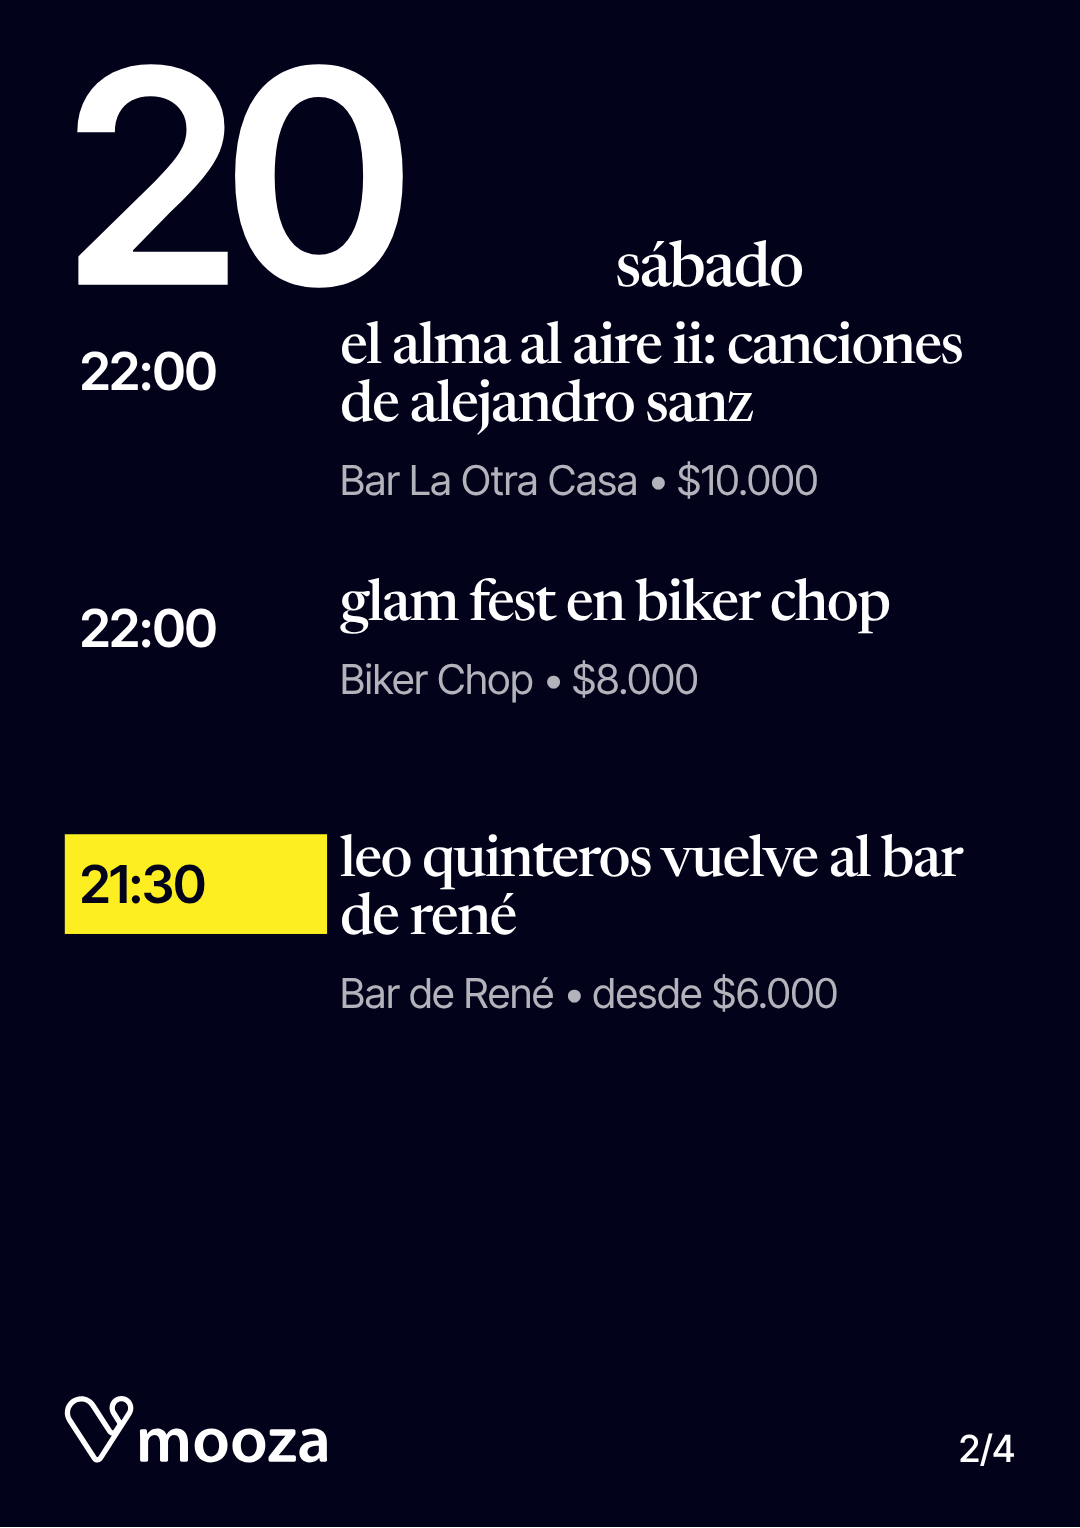
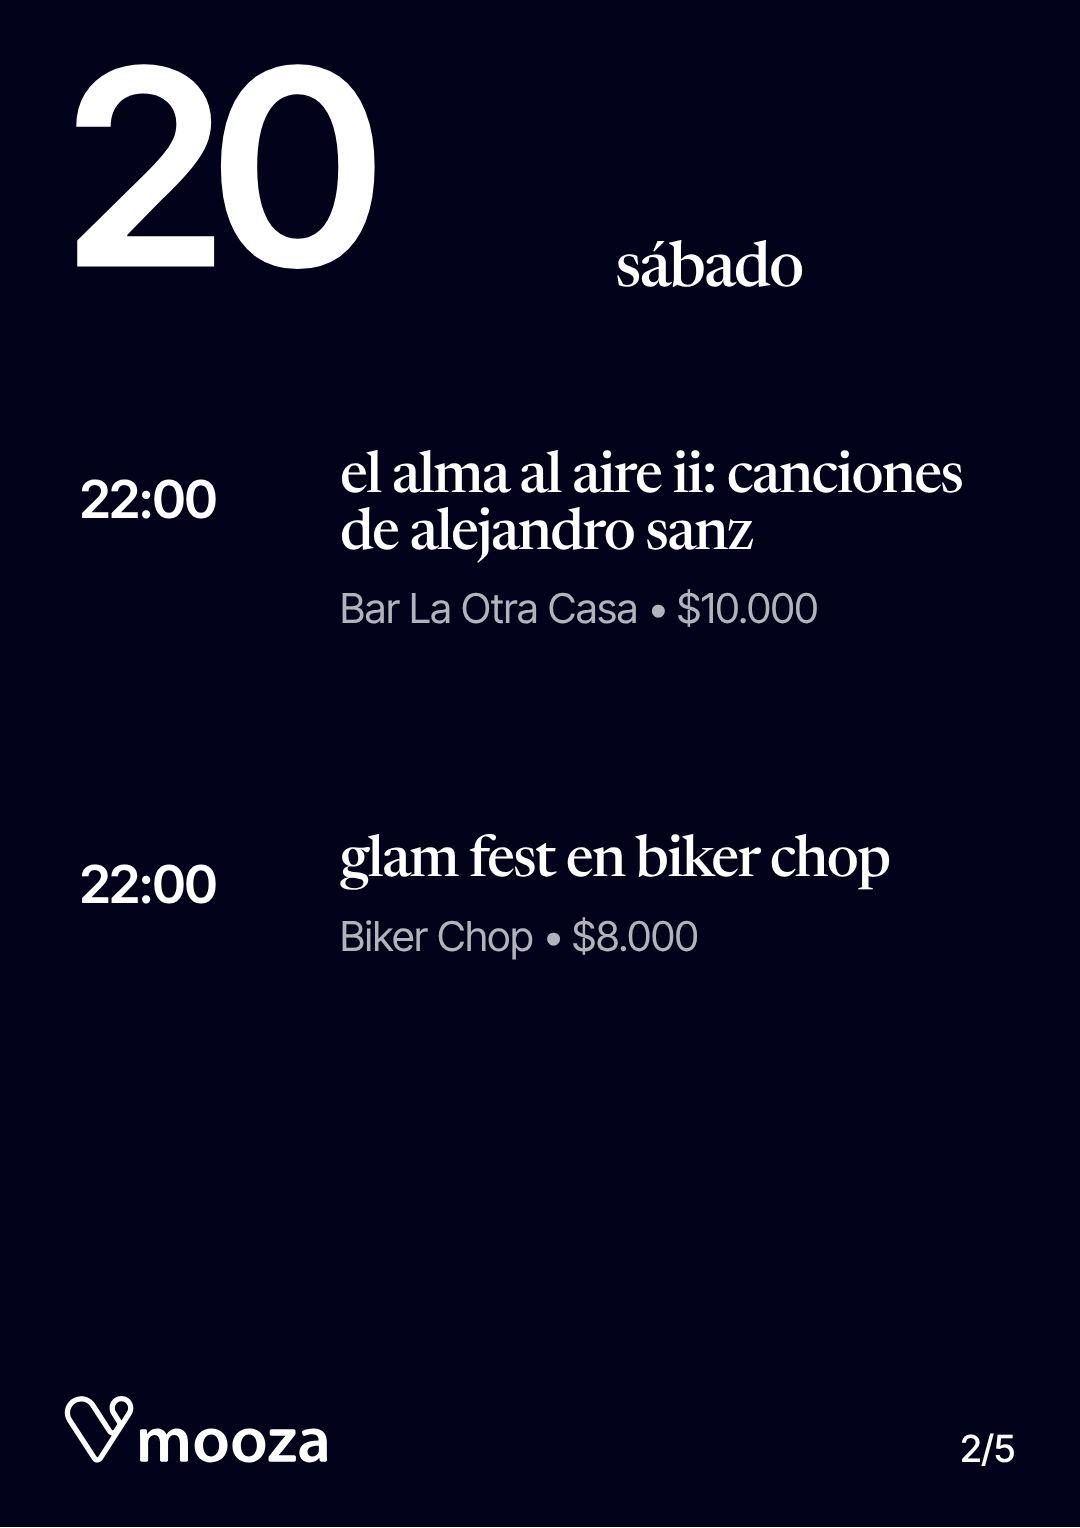
Agenda más aireada: dos eventos por lámina, una fila de aire y número más chico
Claude-Session: https://claude.ai/code/session_01FatczGDNUrWcTXBDB5f52U

diff --git a/components/grid/poster.js b/components/grid/poster.js
@@ -30,7 +30,7 @@
     dias:[['L',26],['M',27],['M',28],['J',29],['V',30],['S',31],['D',1]],
     diaDestacado:4,
     evento:{nombre:'Cuarteto de jazz<br>en vivo',meta:'Teatro del Parque<br>Vie 30 • 21:00 • desde $8.000'},
-    agenda:{dia:'sábado',n:20,pag:'2/4',eventos:[
+    agenda:{dia:'sábado',n:20,pag:'2/5',eventos:[
       {h:'22:00',t:'el alma al aire ii: canciones de alejandro sanz',v:'Bar La Otra Casa',p:'$10.000'},
       {h:'22:00',t:'glam fest en biker chop',v:'Biker Chop',p:'$8.000'},
       {h:'21:30',t:'leo quinteros vuelve al bar de rené',v:'Bar de René',p:'desde $6.000',f:1}
@@ -87,12 +87,13 @@
     return grid(n,h+pie(n,d.rango));
   }
 
-  /* agenda: un día por lámina. El número del día, enorme, y hasta tres eventos (cuatro en A3) con su hora, nombre y lugar.
-     Cada evento ocupa dos filas; el destacado lleva la hora en una celda amarilla. */
+  /* agenda: un día por lámina. El número del día y hasta dos eventos con su hora, nombre y lugar.
+     Cada evento ocupa dos filas y entre ellos queda una fila vacía; el primero empieza en la fila 4, tras una fila de aire.
+     El destacado lleva la hora en una celda amarilla. */
   function agenda(d,n){
-    var a=d.agenda,max=Math.floor((n-3)/2),h=cell(1,4,1,2,'mz-numero',String(a.n))+cell(5,7,1,2,'mz-nombre mz-dia-t',a.dia);
+    var a=d.agenda,max=2,h=cell(1,4,1,2,'mz-numero',String(a.n))+cell(5,7,1,2,'mz-nombre mz-dia-t',a.dia);
     a.eventos.slice(0,max).forEach(function(e,i){
-      var r=3+i*2;
+      var r=4+i*3;
       h+=cell(1,2,r,r,'mz-hora'+(e.f?' mz-hora-on':''),e.h||'')+
          cell(3,7,r,r+1,'mz-evento-t','<span class="mz-nombre">'+e.t+'</span><span class="mz-meta">'+e.v+(e.p?' • '+e.p:'')+'</span>');
     });

diff --git a/guidelines/index.html b/guidelines/index.html
@@ -174,7 +174,7 @@ input[type=range]{width:100%;accent-color:var(--mz-amarillo);height:26px;margin:
       <figure class="fig"><div id="pb" role="img" aria-label="Cartel número"></div><figcaption><i>número</i><b>El rango de la semana</b><span>Enorme, arriba a la izquierda.</span></figcaption></figure>
       <figure class="fig"><div id="pc" role="img" aria-label="Cartel foto"></div><figcaption><i>foto</i><b>Una foto y el evento</b><span>Nombre y una línea de datos.</span></figcaption></figure>
       <figure class="fig"><div id="pd" role="img" aria-label="Cartel semana"></div><figcaption><i>semana</i><b>Siete días en una tira</b><span>El día destacado, relleno.</span></figcaption></figure>
-      <figure class="fig"><div id="pe" role="img" aria-label="Cartel agenda"></div><figcaption><i>agenda</i><b>Un día por lámina</b><span>Hasta tres eventos. Para el carrusel.</span></figcaption></figure>
+      <figure class="fig"><div id="pe" role="img" aria-label="Cartel agenda"></div><figcaption><i>agenda</i><b>Un día por lámina</b><span>Hasta dos eventos. Para el carrusel.</span></figcaption></figure>
       <figure class="fig"><div id="pf" role="img" aria-label="Story"></div><figcaption><i>story</i><b>La misma grilla en 9:16</b><span>El margen vertical sube 2,2 veces, con tope de 18 %.</span></figcaption></figure>
       <dl class="reglas">
         <div><dt>Columnas</dt><dd>Siete, siempre. Las filas cambian con el formato: 9 en 4:5 y 16 en 9:16.</dd></div>

diff --git a/components/grid/grid.css b/components/grid/grid.css
@@ -52,7 +52,7 @@
 
 /* agenda: hora y evento */
 .mz-dia-t{align-self:end;padding-bottom:calc(var(--mz-col)*.05*1cqw)}
-.mz-d-agenda .mz-numero{font-size:calc(var(--mz-col)*2.4*1cqw)}
+.mz-d-agenda .mz-numero{font-size:calc(var(--mz-col)*2.2*1cqw)}
 .mz-d-agenda .mz-nombre{font-size:calc(var(--mz-col)*.46*1cqw);line-height:1}
 .mz-d-agenda .mz-evento-t{gap:calc(var(--mz-col)*.14*1cqw)}
 .mz-hora{font-size:calc(var(--mz-col)*.42*1cqw);font-weight:600;line-height:1;font-variant-numeric:tabular-nums;letter-spacing:-.02em;padding:calc(var(--mz-col)*.1*1cqw) calc(var(--mz-col)*.12*1cqw);align-self:start;height:calc(var(--mz-col)*.8*1cqw);display:flex;align-items:center}

diff --git a/readme.md b/readme.md
@@ -113,7 +113,7 @@ Una idea por cartel y mucho blanco. Seis diseños sobre la misma grilla. Siempre
 | número | El rango de la semana, enorme | 4:5, A3, 1:1, 16:9 |
 | foto | Una foto, el nombre del evento y una línea de datos | 4:5, A3, 1:1, 16:9 |
 | semana | Siete días en una tira, el destacado relleno | 4:5, A3, 1:1, 16:9 |
-| agenda | Un día por lámina y hasta tres eventos. Para el carrusel semanal | 4:5, A3 |
+| agenda | Un día por lámina y hasta dos eventos. Para el carrusel semanal | 4:5, A3 |
 | story | Categoría, nombre, datos y foto | 9:16 |
 
 Filas por formato: 9 en 4:5, 11 en A3, 8 en 1:1, 4 en 16:9 y 16 en 9:16. El carrusel semanal de Instagram se arma con una portada (titular), una o más láminas de agenda por día y un cierre (titular).
